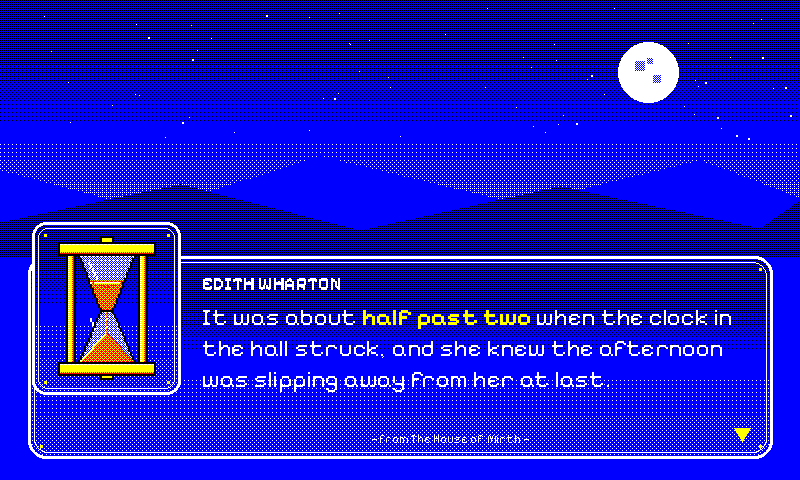
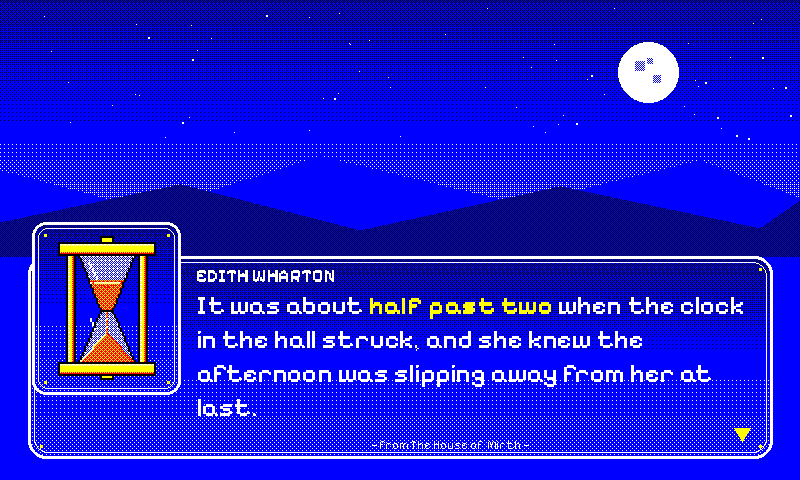
Make chrono dialogue text larger
Raise font_max 46->54, enlarge the quote area (wider column + more
vertical room: body rect top/sides/bottom padding trimmed), tighten the
name->quote gap 12->8, and nudge the footer down 6px to keep clearance.
Short quotes now render ~54px; dense quotes still shrink to fit.

https://claude.ai/code/session_015AgeG1R44o6rjtc71p48wz

Changed region(s): [[0.25, 0.5625, 0.9375, 0.8125], [0.4688, 0.9062, 0.6562, 0.9375], [0.25, 0.8438, 0.3125, 0.875]]

diff --git a/idle_hours/render_quote.py b/idle_hours/render_quote.py
@@ -15177,13 +15177,13 @@ def _chrono_paint_dialogue(image: Image.Image, draw: ImageDraw.ImageDraw, quote_
         name = name[:-1]
     nb = draw.textbbox((0, 0), name, font=name_font)
     draw.text((x0 - nb[0], y0 - nb[1]), name, font=name_font, fill=WHITE)
-    body_top = y0 + (nb[3] - nb[1]) + 12
+    body_top = y0 + (nb[3] - nb[1]) + 8
 
     display_quote = normalize_dashes(strip_underscore_emphasis(quote_row.get("display_quote") or ""))
     matched = quote_row.get("matched_text") or ""
     quote_font, quote_font_bold, wrapped_quote, line_height, _ = fit_quote(
         draw, display_quote, matched, box_w, y1 - body_top,
-        font_max=46, font_min=14, line_height_mult=1.32, theme="chrono",
+        font_max=54, font_min=14, line_height_mult=1.32, theme="chrono",
     )
     body_ascent = _font_ascent(quote_font)
     y = body_top
@@ -15226,7 +15226,7 @@ def _chrono_paint_footer(image: Image.Image, draw: ImageDraw.ImageDraw, quote_ro
     bbox = draw.textbbox((0, 0), text, font=font)
     cx = (_CHRONO_WINDOW[0] + _CHRONO_WINDOW[2]) // 2 + 50  # nudge clear of the portrait
     fx = cx - (bbox[2] - bbox[0]) // 2 - bbox[0]
-    fy = _CHRONO_WINDOW[3] - 24 - bbox[1]
+    fy = _CHRONO_WINDOW[3] - 18 - bbox[1]
     # White (smaller than the body so it still reads as secondary) — a sky-blue
     # B+W dither was tried here but averaged too close to the blue window fill
     # to stay legible at the footer point size.
@@ -15249,7 +15249,7 @@ def render_chrono_frame(time_str: str, quote_row: dict, width: int, height: int)
     _chrono_paint_portrait(image, draw)
     # Dialogue text sits right of the portrait, inside the window.
     px1 = _CHRONO_PORTRAIT[2]
-    _chrono_paint_dialogue(image, draw, quote_row, (px1 + 22, _CHRONO_WINDOW[1] + 22, _CHRONO_WINDOW[2] - 30, _CHRONO_WINDOW[3] - 34))
+    _chrono_paint_dialogue(image, draw, quote_row, (px1 + 16, _CHRONO_WINDOW[1] + 14, _CHRONO_WINDOW[2] - 24, _CHRONO_WINDOW[3] - 30))
     _chrono_paint_arrow(draw)
     _chrono_paint_footer(image, draw, quote_row)
     return snap_image_to_palette(image, SPECTRA6_PALETTE)
